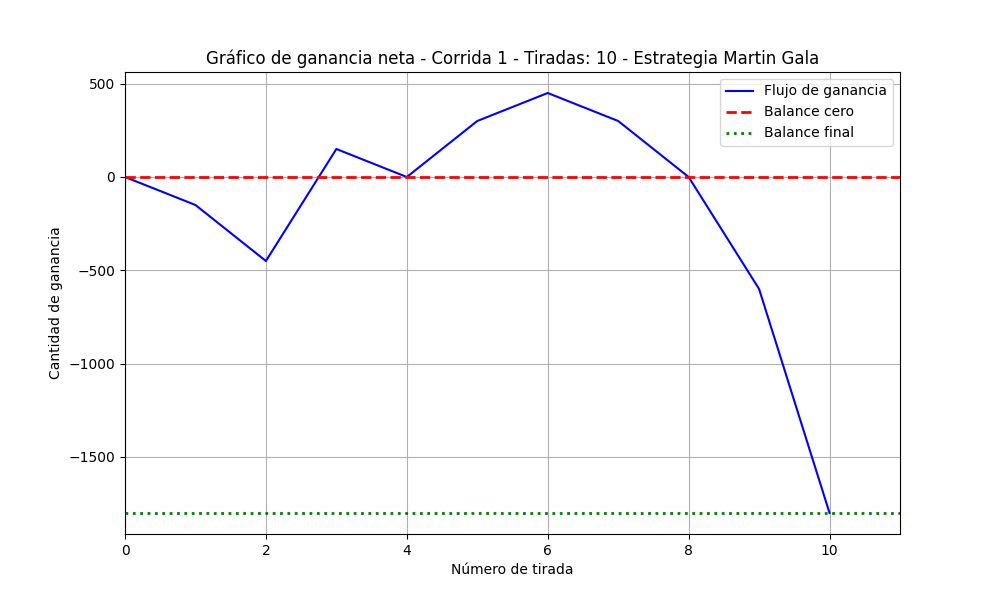
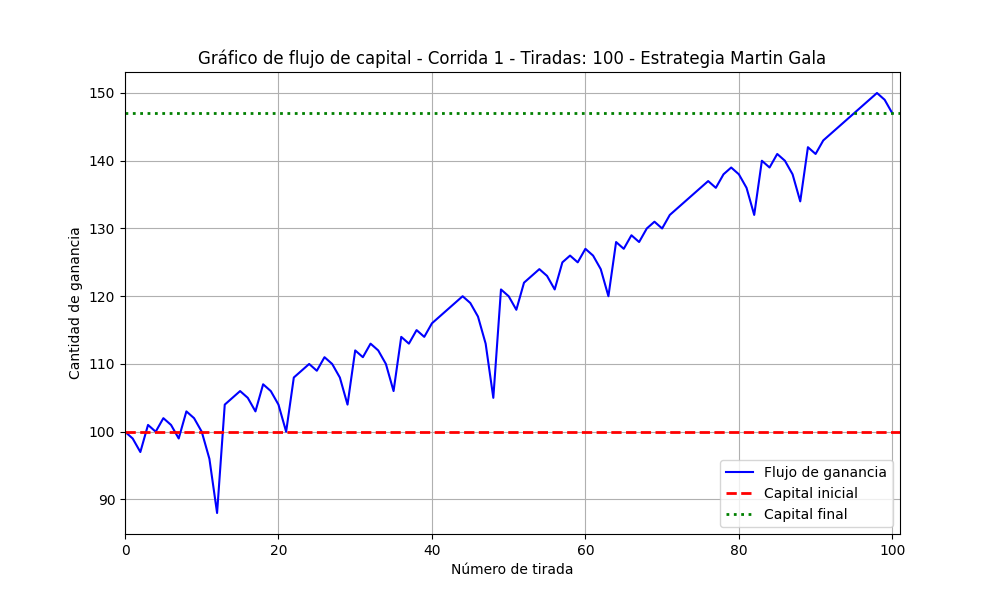
Grafica Resumen

diff --git a/Tp 1.2/Tp1.2-Estrategias.py b/Tp 1.2/Tp1.2-Estrategias.py
@@ -1,16 +1,18 @@
 import math
 import random
 import sys
+import matplotlib as mpl
 import numpy as np
 import matplotlib.pyplot as plt
 
 # Ruleta
 
+
 def ruleta():
     valor = random.randint(0, 36)
     return valor
 
-# Gráfica
+# Grafica
 
 
 def grafica_balance(balanceArray, i, strategy_name):
@@ -20,15 +22,19 @@ def grafica_balance(balanceArray, i, strategy_name):
              balanceArray, label='Flujo de ganancia', color='blue')
     if balanceArray[0] == 0:
         plt.title('Gráfico de ganancia neta - Corrida ' + str(i+1) + ' - Tiradas: ' +
-              str(len(balanceArray)-1)+' - Estrategia ' + strategy_name)
-        plt.axhline(balanceArray[0], color='red', linestyle='--',linewidth=2, label='Balance cero')
-        plt.axhline(balanceArray[-1], color='green', linestyle=':',linewidth=2, label='Balance final')
+                  str(len(balanceArray)-1)+' - Estrategia ' + strategy_name)
+        plt.axhline(balanceArray[0], color='red',
+                    linestyle='--', linewidth=2, label='Balance cero')
+        plt.axhline(balanceArray[-1], color='green',
+                    linestyle=':', linewidth=2, label='Balance final')
     else:
         plt.title('Gráfico de flujo de capital - Corrida ' + str(i+1) + ' - Tiradas: ' +
-              str(len(balanceArray)-1)+' - Estrategia ' + strategy_name)
-        plt.axhline(balanceArray[0], color='red', linestyle='--',linewidth=2, label='Capital inicial')
-        plt.axhline(balanceArray[-1], color='green', linestyle=':',linewidth=2, label='Capital final')
-    
+                  str(len(balanceArray)-1)+' - Estrategia ' + strategy_name)
+        plt.axhline(balanceArray[0], color='red',
+                    linestyle='--', linewidth=2, label='Capital inicial')
+        plt.axhline(balanceArray[-1], color='green',
+                    linestyle=':', linewidth=2, label='Capital final')
+
     plt.xlabel('Número de tirada')
     plt.ylabel('Cantidad de ganancia')
 
@@ -42,7 +48,7 @@ def grafica_balance(balanceArray, i, strategy_name):
 
 
 def grafica_resumen_balances(balancesArray, i, strategy_name):
-
+    mpl.style.use("default")
     plt.figure(figsize=(10, 6))
     nro_tiradas_eje_x = [x for x in range(cant_tiradas+1)]
     cant_max_tiradas = len(balancesArray[0])
@@ -50,23 +56,24 @@ def grafica_resumen_balances(balancesArray, i, strategy_name):
         if cant_max_tiradas < len(balancesArray[i]):
             cant_max_tiradas = len(balancesArray[i])
         plt.plot(nro_tiradas_eje_x[:len(balancesArray[i])],
-                 balancesArray[i], label='Flujo de ganancia', color='blue')
+                 balancesArray[i], label='Flujo de ganancia', color='C'+str(i % 10+1))
     plt.axhline(0, color='red', linestyle='--',
                 linewidth=2, label='Balance cero')
     plt.xlabel('Número de tirada')
     plt.ylabel('Cantidad de ganancia')
-    plt.title('Gráfico de ganancia neta - Corrida ' + str(i+1) + ' - Tiradas: ' +
-              str(len(balancesArray))+' - Estrategia ' + strategy_name)
+    plt.title('Gráfico de ganancia neta - Cantidad de Corridas ' + str(i+1) + ' - Tiradas máximas: ' +
+              str(cant_max_tiradas-1)+' - Estrategia ' + str(strategy_name))
     plt.legend()
     plt.grid(True)
     # Límites del eje x de tirada 1 a la 10
-    plt.xlim(1, len(balanceArray))
+    plt.xlim(1, cant_max_tiradas-1)
     # Guardar la figura en disco
-    plt.savefig('balance_corrida_'+str(i+1)+'.png')
+    plt.savefig('balance_resumen.png')
     plt.show()  # Mostrar la figura
 
-
 # Estrategias
+
+
 def martingala_strategy(initial_bet, cant_tiradas, initial_capital, capital):
     balanceArray = []
     betArray = []
@@ -218,10 +225,10 @@ def simulate_game(strategy, initial_bet, cant_tiradas, cant_corridas, initial_ca
         balanceArray = resultados[0]
         betArray = resultados[1]
 
-        balancesArray.apprend(balanceArray)
+        balancesArray.append(balanceArray)
 
         grafica_balance(balanceArray, i, strategy_name)
-        grafica_resumen_balances(balancesArray, i, strategy_name)
+    grafica_resumen_balances(balancesArray, i, strategy_name)
 
 
 # Inicio del programa
@@ -249,21 +256,16 @@ initial_bet = int(input("Ingrese la apuesta inicial: "))
 
 if (estrategia) == "m":
     # Simulación de la estrategia de Martingala
-    simulate_game(martingala_strategy, initial_bet, cant_tiradas, cant_corridas, initial_capital, capital, "Martin Gala")
+    simulate_game(martingala_strategy, initial_bet, cant_tiradas,
+                  cant_corridas, initial_capital, capital, "Martin Gala")
 elif (estrategia) == "d":
     # Simulación de la estrategia de D'Alembert
-    simulate_game(dalembert_strategy, initial_bet, cant_tiradas, cant_corridas, initial_capital, capital, "D'Alembert")
+    simulate_game(dalembert_strategy, initial_bet, cant_tiradas,
+                  cant_corridas, initial_capital, capital, "D'Alembert")
 elif (estrategia) == "f":
     # Simulación de la estrategia de Fibonacci
-<<<<<<< HEAD
     simulate_game(fibonacci_strategy, initial_bet, cant_tiradas,
                   cant_corridas, initial_capital, capital, "Fibonacci")
-else:
-    print("else")
-    simulate_game(paroli_strategy, initial_bet,
-                  cant_tiradas, cant_corridas, initial_capital, capital, "Nosotros")
-=======
-    simulate_game(fibonacci_strategy, initial_bet, cant_tiradas, cant_corridas, initial_capital, capital, "Fibonacci")
 elif (estrategia) == "o":
-    simulate_game(paroli_strategy, initial_bet, cant_tiradas, cant_corridas, initial_capital, capital, "Nosotros")
->>>>>>> 2b5261c4bf57be7e141a8cf3c0b58866d72d0a03
+    simulate_game(paroli_strategy, initial_bet, cant_tiradas,
+                  cant_corridas, initial_capital, capital, "Paroli")
